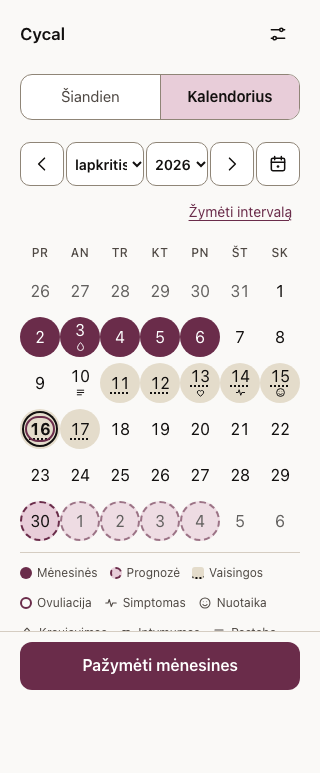
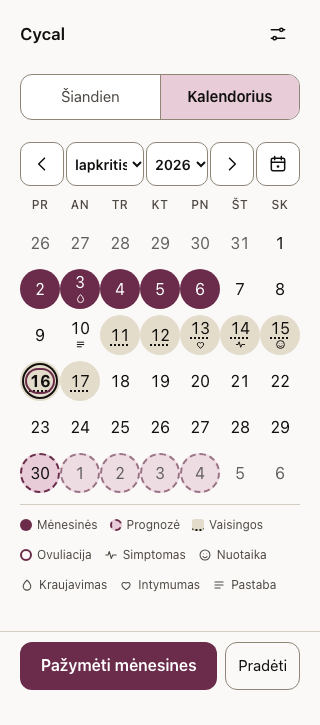
Make period range the primary action

Changed region(s): [[0.0625, 0.091, 0.9375, 0.971], [0.0625, 0.0303, 0.1875, 0.0607], [0.8438, 0.0303, 0.9062, 0.0607]]

diff --git a/e2e/app.spec.ts b/e2e/app.spec.ts
@@ -37,6 +37,16 @@ function tab(page: Page, which: 'today' | 'calendar') {
   return page.getByRole('tab', { name: COPY.tabs[which] });
 }
 
+async function startToday(page: Page): Promise<void> {
+  await page.getByRole('button', { name: COPY.app.startTodayAria }).click();
+}
+
+async function startRange(page: Page): Promise<void> {
+  await page.getByRole('button', { name: COPY.app.markPeriod, exact: true }).click();
+  await expect(tab(page, 'calendar')).toHaveAttribute('aria-selected', 'true');
+  await expect(page.locator('.range-bar')).toBeVisible();
+}
+
 async function openCalendar(page: Page): Promise<void> {
   await tab(page, 'calendar').click();
   await expect(page.locator('#calendar-panel')).toBeVisible();
@@ -82,7 +92,7 @@ test('pirmas paleidimas: vienas kraujavimo valdiklis ir dienos įrašai išlieka
   await expect(tab(page, 'today')).toHaveAttribute('aria-selected', 'true');
   await expect(page.locator('#calendar-panel')).toBeHidden();
 
-  await page.getByRole('button', { name: COPY.app.markPeriod }).click();
+  await startToday(page);
   await expect(page.getByText(COPY.period.day(1), { exact: true })).toBeVisible();
   await expect(page.locator('.count')).toHaveCount(4);
   await expect(page.locator('.count-value').first()).toContainText('28');
@@ -97,9 +107,13 @@ test('pirmas paleidimas: vienas kraujavimo valdiklis ir dienos įrašai išlieka
   await expect(page.getByRole('dialog')).toHaveCount(0);
   await expect(page.getByRole('group', { name: COPY.bleeding.aria })).toHaveCount(1);
 
-  const calendarBox = await page.locator('.calendar').boundingBox();
-  const panelBox = await page.locator('.day-panel').boundingBox();
-  expect(panelBox!.y).toBeGreaterThanOrEqual(calendarBox!.y + calendarBox!.height - 1);
+  await expect
+    .poll(async () => {
+      const calendarBox = await page.locator('.calendar').boundingBox();
+      const panelBox = await page.locator('.day-panel').boundingBox();
+      return panelBox!.y >= calendarBox!.y + calendarBox!.height - 1;
+    })
+    .toBe(true);
 
   const bleeding = page.getByRole('group', { name: COPY.bleeding.aria });
   await bleeding.getByRole('button', { name: MEDIUM, exact: true }).click();
@@ -298,8 +312,7 @@ test('intymumas turi apsaugos detalę', async ({ page }) => {
 test('intervalą galima pažymėti dviem bakstelėjimais', async ({ page }) => {
   const errors = collectErrors(page);
   await page.goto('/');
-  await openCalendar(page);
-  await page.getByRole('button', { name: COPY.range.action }).click();
+  await startRange(page);
   await expect(page.locator('.range-bar')).toBeVisible();
   await expect(page.locator('.range-hint')).toHaveText(COPY.range.start);
 
@@ -325,8 +338,7 @@ test('intervalą galima pažymėti dviem bakstelėjimais', async ({ page }) => {
 test('intervalą galima braukti vienu gestu', async ({ page }) => {
   const errors = collectErrors(page);
   await page.goto('/');
-  await openCalendar(page);
-  await page.getByRole('button', { name: COPY.range.action }).click();
+  await startRange(page);
 
   const start = offsetDayKey(-10);
   const end = offsetDayKey(-6);
@@ -355,8 +367,7 @@ test('intervalą galima braukti vienu gestu', async ({ page }) => {
 
 test('intervalo režimą galima atšaukti, o ateitis atmetama', async ({ page }) => {
   await page.goto('/');
-  await openCalendar(page);
-  await page.getByRole('button', { name: COPY.range.action }).click();
+  await startRange(page);
 
   const future = offsetDayKey(5);
   await page.locator(`.cal-day[data-value="${future}"]`).click();
@@ -372,8 +383,7 @@ test('intervalo režimą galima atšaukti, o ateitis atmetama', async ({ page })
 
 test('intervalą galima pasirinkti klaviatūra', async ({ page }) => {
   await page.goto('/');
-  await openCalendar(page);
-  await page.getByRole('button', { name: COPY.range.action }).click();
+  await startRange(page);
 
   const start = offsetDayKey(-10);
   const end = offsetDayKey(-6);
@@ -422,7 +432,7 @@ test('veikia neprisijungus po pirmo apsilankymo', async ({ page, context }) => {
 
 test('prognozių režimą galima pristabdyti, ir tai išlieka po perkrovimo', async ({ page }) => {
   await page.goto('/');
-  await page.getByRole('button', { name: COPY.app.markPeriod }).click();
+  await startToday(page);
   await page.getByRole('button', { name: COPY.period.ended, exact: true }).click();
   await page.getByRole('button', { name: COPY.common.settings }).click();
   await page.getByRole('button', { name: COPY.settings.modes.paused.label, exact: true }).click();
@@ -435,7 +445,7 @@ test('prognozių režimą galima pristabdyti, ir tai išlieka po perkrovimo', as
 
 test('eksportuoja prognozes į .ics failą', async ({ page }) => {
   await page.goto('/');
-  await page.getByRole('button', { name: COPY.app.markPeriod }).click();
+  await startToday(page);
   await page.getByRole('button', { name: COPY.common.settings }).click();
 
   const downloadPromise = page.waitForEvent('download');
@@ -453,7 +463,7 @@ test('eksportuoja prognozes į .ics failą', async ({ page }) => {
 
 test('intensyvumas pažymi kraujavimą, o „Baigėsi“ uždaro mėnesines', async ({ page }) => {
   await page.goto('/');
-  await page.getByRole('button', { name: COPY.app.markPeriod }).click();
+  await startToday(page);
   await expect(page.getByRole('button', { name: OLD_STILL })).toHaveCount(0);
   await page.getByRole('button', { name: COPY.bleeding.change }).click();
 
@@ -588,7 +598,7 @@ test('istoriją galima įrašyti, redaguoti ir ištrinti', async ({ page }) => {
 
 test('eksportuoja, ištrina ir atkuria atsarginę kopiją', async ({ page }) => {
   await page.goto('/');
-  await page.getByRole('button', { name: COPY.app.markPeriod }).click();
+  await startToday(page);
   await page.getByRole('button', { name: COPY.common.settings }).click();
 
   const downloadPromise = page.waitForEvent('download');

diff --git a/src/App.svelte b/src/App.svelte
@@ -17,6 +17,7 @@
   let view = $state<View>('home');
   let homeTab = $state<HomeTab>('today');
   let selectedDay = $state<DayKey | null>(null);
+  let rangeMode = $state(false);
   let historyReturn = $state<'home' | 'settings'>('settings');
   let historyStartAdding = $state(false);
   let actionError = $state<string | null>(null);
@@ -41,6 +42,7 @@
   }
 
   function go(next: View): void {
+    if (next !== 'home') rangeMode = false;
     view = next;
     window.scrollTo({ top: 0 });
   }
@@ -53,6 +55,7 @@
 
   function selectTab(tab: HomeTab): void {
     if (homeTab === tab) return;
+    if (tab === 'today') rangeMode = false;
     homeTab = tab;
     window.scrollTo({ top: 0, behavior: reduceMotion() ? 'auto' : 'smooth' });
   }
@@ -97,6 +100,7 @@
 
   async function markToday(): Promise<void> {
     actionError = null;
+    rangeMode = false;
     try {
       const result = await app.markPeriodStart(app.today);
       if (result === 'exists') {
@@ -106,6 +110,14 @@
     } catch (cause) {
       actionError = cause instanceof Error ? cause.message : COPY.errors.save;
     }
+  }
+
+  function openPeriodRange(): void {
+    actionError = null;
+    selectedDay = null;
+    rangeMode = true;
+    homeTab = 'calendar';
+    window.scrollTo({ top: 0, behavior: reduceMotion() ? 'auto' : 'smooth' });
   }
 
   async function runAction(task: () => Promise<unknown>): Promise<void> {
@@ -199,7 +211,7 @@
           today={app.today}
           selectedDay={selectedDay}
           onSelectDay={(day) => (selectedDay = day)}
-          onClearSelection={() => (selectedDay = null)}
+          bind:rangeMode
         />
         {#if selectedDay}
           {#key selectedDay}
@@ -226,7 +238,14 @@
           onEnded={() => runAction(() => app.endActivePeriod(app.today))}
         />
       {:else}
-        <button class="primary" onclick={markToday}>{COPY.app.markPeriod}</button>
+        <div class="period-actions">
+          <button class="primary" onclick={openPeriodRange}>{COPY.app.markPeriod}</button>
+          <button
+            class="secondary"
+            aria-label={COPY.app.startTodayAria}
+            onclick={markToday}
+          >{COPY.app.startToday}</button>
+        </div>
       {/if}
     </div>
   </footer>

diff --git a/src/components/MonthCalendar.svelte b/src/components/MonthCalendar.svelte
@@ -21,14 +21,14 @@
     today,
     selectedDay,
     onSelectDay,
-    onClearSelection,
+    rangeMode = $bindable(false),
   }: {
     events: DayEvent[];
     stats: CycleStats;
     today: DayKey;
     selectedDay: DayKey | null;
     onSelectDay: (day: DayKey) => void;
-    onClearSelection: () => void;
+    rangeMode?: boolean;
   } = $props();
 
   const byDay = $derived.by(() => {
@@ -73,7 +73,6 @@
   );
 
   let calendarEl = $state<HTMLElement>();
-  let rangeMode = $state(false);
   let rangeStart = $state<DayKey | null>(null);
   let rangeEnd = $state<DayKey | null>(null);
   let rangeError = $state<string | null>(null);
@@ -100,6 +99,17 @@
 
   onDestroy(() => {
     if (statusTimer) clearTimeout(statusTimer);
+  });
+
+  $effect(() => {
+    if (!rangeMode) return;
+    rangeStart = null;
+    rangeEnd = null;
+    rangeError = null;
+    rangeStatus = null;
+    dragStart = null;
+    dragCurrent = null;
+    dragging = false;
   });
 
   $effect(() => {
@@ -141,18 +151,6 @@
       return;
     }
     onSelectDay(next.toString());
-  }
-
-  function enterRange(): void {
-    rangeMode = true;
-    rangeStart = null;
-    rangeEnd = null;
-    rangeError = null;
-    rangeStatus = null;
-    dragStart = null;
-    dragCurrent = null;
-    dragging = false;
-    onClearSelection();
   }
 
   function exitRange(): void {
@@ -405,10 +403,6 @@
         {#if rangeError}
           <p class="range-error" role="alert">{rangeError}</p>
         {/if}
-      {:else}
-        <div class="range-entry">
-          <button class="link-button" onclick={enterRange}>{COPY.range.action}</button>
-        </div>
       {/if}
 
       {#each months as month (month.value.toString())}

diff --git a/src/app.css b/src/app.css
@@ -322,6 +322,26 @@ textarea {
   gap: 8px;
 }
 
+.period-actions {
+  display: flex;
+  align-items: stretch;
+  gap: 8px;
+}
+
+.period-actions .primary {
+  flex: 1 1 auto;
+  padding-inline: 12px;
+  white-space: nowrap;
+}
+
+.period-actions .secondary {
+  flex: 0 0 auto;
+  min-height: 48px;
+  padding-inline: 12px;
+  font-size: 15px;
+  white-space: nowrap;
+}
+
 /* Month calendar */
 
 .calendar {
@@ -550,12 +570,6 @@ textarea {
 }
 
 /* Calendar range selection */
-
-.range-entry {
-  display: flex;
-  justify-content: flex-end;
-  margin: 2px 0 4px;
-}
 
 .range-bar {
   display: flex;

diff --git a/src/lib/strings.ts b/src/lib/strings.ts
@@ -33,6 +33,8 @@ export const COPY = {
   },
   app: {
     markPeriod: 'Pažymėti mėnesines',
+    startToday: 'Pradėti',
+    startTodayAria: 'Pradėti mėnesines šiandien',
     settingsAria: 'Nustatymai',
     privacy: 'Privatumas',
     privacyNote:
@@ -147,7 +149,6 @@ export const COPY = {
     change: 'Keisti',
   },
   range: {
-    action: 'Žymėti intervalą',
     start: 'Pasirink pradžią arba brauk',
     end: (date: string) => `Pradžia: ${date} · Pasirink pabaigą`,
     saved: (range: string) => `Mėnesinės įrašytos: ${range}`,

diff --git a/README.md b/README.md
@@ -16,8 +16,7 @@ Built from [PROPOSAL.md](PROPOSAL.md); the decisions and build report live in [P
 
 - **Tabs:** `Šiandien` and `Kalendorius` switch in one tap; the tab bar stays reachable while scrolling.
 - **Today:** a countdown board. Cycle day and phase are compact context; four tiles show the days left to the next period, fertile window, ovulation and PMS as the large numbers, with dates as small muted notes. Last period is a small footer. No prose status lines.
-- **Period logging:** mark a start; the **one** bleeding-intensity control in the day panel records the bleeding day together with `Lengvas`, `Vidutinis` or `Stiprus`. The active card shows today's level and a `Keisti` shortcut; `Baigėsi` ends the period. A period can be entered on any past day.
-- **Period range:** in Calendar, `Žymėti intervalą` enters a range mode. Tap a start and end, or press on one day and drag to another, to save a completed period in one go. One-day ranges work; the range mode validates future/overlapping ranges and does not set per-day intensity.
+- **Period logging:** the primary `Pažymėti mėnesines` action opens Calendar range selection: tap a start and end, or press and drag from one day to another, to save a completed period in one go. `Pradėti` is the secondary action for a period that starts today. The **one** bleeding-intensity control in the day panel then records each bleeding day as `Lengvas`, `Vidutinis` or `Stiprus`; the active card shows today's level, `Keisti`, and `Baigėsi`. A period can be entered on any past day.
 - **Calendar:** solid recorded period days, dashed predicted days, fertile tint with a dotted underline, ovulation ring, and small event-type icons (symptom, mood, flow, intimacy, note, custom) with a compact legend. A day opens an inline record panel **below** the calendar, never a modal. Month/year selects and previous/next/today controls sit in the calendar header; keyboard navigation works.
 - **Day panel:** the single bleeding-intensity control, symptoms (with mild/moderate/severe), mood, intimacy (protected or unprotected), notes and custom labels, all with delete + undo. Notes and custom entries can be edited in place on past days.
 - **History editor:** add completed past periods with start/end dates, edit a cycle's dates, or delete it. Non-period records on those days are preserved; predictions and cycle stats update immediately. Entry is offered from the empty Today screen and Settings → Ciklų istorija.
@@ -96,7 +95,7 @@ The canonical date is a `YYYY-MM-DD` string everywhere except inside `MonthCalen
 ## Verification snapshot
 
 - 89 unit tests in 8 files and 17 Playwright flows pass; `svelte-check` is clean.
-- Production build: **64.0 KB gzip JS**, 4.7 KB gzip CSS, 15 precached files (≈227 KB).
+- Production build: **64.1 KB gzip JS**, 4.8 KB gzip CSS, 15 precached files (≈228 KB).
 - 390 px and 320 px: no horizontal overflow; the 2×2 countdown grid, day cells 46×46/40×40 and all tabs/controls are finger-sized. The calendar tab shows the full month above the action bar; the day panel sits below it.
 - All key text/background pairs pass 4.5:1 in both palettes; control borders are at least 3.16:1.
 - Screenshots: [`screenshots/`](screenshots/).

diff --git a/PLAN.md b/PLAN.md
@@ -428,10 +428,10 @@ The v1 mechanics, schema, URLs and QR stayed unchanged. This pass changed presen
 
 ## 16. Period range pass — 16 Nov 2026
 
-**Range entry.** Calendar has a `Žymėti intervalą` mode. Entering it clears any selected day panel and shows a hint bar: `Pasirink pradžią arba brauk`, then `Pradžia: … · Pasirink pabaigą`. Tapping a day selects the start; a second tap normalises and saves start/end. Pressing a day and dragging to another saves the range on release. One-day ranges work. `Atšaukti` discards the preview; no data is written until a valid commit.
+**Range entry.** The primary `Pažymėti mėnesines` action bar button opens Calendar range mode directly from either tab and scrolls it into view; the old secondary `Žymėti intervalą` link is gone. `Pradėti` remains a compact secondary action that starts a period today. Opening range mode clears any selected day panel and shows a hint bar: `Pasirink pradžią arba brauk`, then `Pradžia: … · Pasirink pabaigą`. Tapping a day selects the start; a second tap normalises and saves start/end. Pressing a day and dragging to another saves the range on release. One-day ranges work. `Atšaukti` discards the preview; no data is written until a valid commit.
 
 **Gesture.** Pointer Events drive drag selection; pointer capture is enabled only once the pointer moves, so ordinary taps still reach Bits UI and open/choose days. A capture-phase click guard suppresses the synthetic click after a drag, preventing a duplicate range or an unintended day panel. `touch-action:none` applies to the grid only in range mode; the rest of the page scrolls. Drags are normalised to earliest/latest.
 
 **Validation.** Range mode uses the existing `addPeriodRange` action: future dates, overlaps, active-period ordering and range order are rejected with the existing Lithuanian errors; the range bar stays open for correction. The period is saved as `period-start` + `period-end` only; no flow/intensity is fabricated. The day-panel bleeding control remains the single intensity entry.
 
-**Verification.** 89 unit tests in 8 files; 17 Playwright flows (tap range, drag range, keyboard range, cancel/future); build **64.0 KB gzip JS**, 4.7 KB gzip CSS, 15 precached files (227 KiB). Screenshots include the range hint/start preview. No IndexedDB, backup, settings, URL or QR changes. Real iOS safe-area/screen-reader behaviour and ICS import remain untested.
+**Verification.** 89 unit tests in 8 files; 17 Playwright flows (tap range from the primary action, drag range, keyboard range, cancel/future); build **64.1 KB gzip JS**, 4.8 KB gzip CSS, 15 precached files (228 KiB). Screenshots include the range hint/start preview. No IndexedDB, backup, settings, URL or QR changes. Real iOS safe-area/screen-reader behaviour and ICS import remain untested.

diff --git a/PROPOSAL.md b/PROPOSAL.md
@@ -198,6 +198,6 @@ No IndexedDB, backup, settings, URL or QR changes. Verification: 82 unit tests, 
 
 ## 13. Period range entry — 16 Nov 2026
 
-Calendar now has an optional `Žymėti intervalą` mode. Tap a start and end, or press on a date and drag to another date, and the period is saved as a completed `period-start`/`period-end` range in one action. Taps continue to work through the normal calendar selection; drags use pointer events with delayed capture, a click guard and grid-only `touch-action:none`. Invalid future/overlap/order ranges reuse the existing validation errors and stay editable. Range mode does not set bleeding intensity; the day-panel control remains the single intensity entry.
+The primary `Pažymėti mėnesines` action opens Calendar range selection; `Pradėti` is the compact secondary action for a period that starts today. Tap a start and end, or press on a date and drag to another date, and the period is saved as a completed `period-start`/`period-end` range in one action. Taps continue to work through the normal calendar selection; drags use pointer events with delayed capture, a click guard and grid-only `touch-action:none`. Invalid future/overlap/order ranges reuse the existing validation errors and stay editable. Range mode does not set bleeding intensity; the day-panel control remains the single intensity entry.
 
-No IndexedDB, backup, settings, URL or QR changes. Verification: 89 unit tests, 17 browser flows, 64.0 KB gzip JS, 4.7 KB gzip CSS.
+No IndexedDB, backup, settings, URL or QR changes. Verification: 89 unit tests, 17 browser flows, 64.1 KB gzip JS, 4.8 KB gzip CSS.
